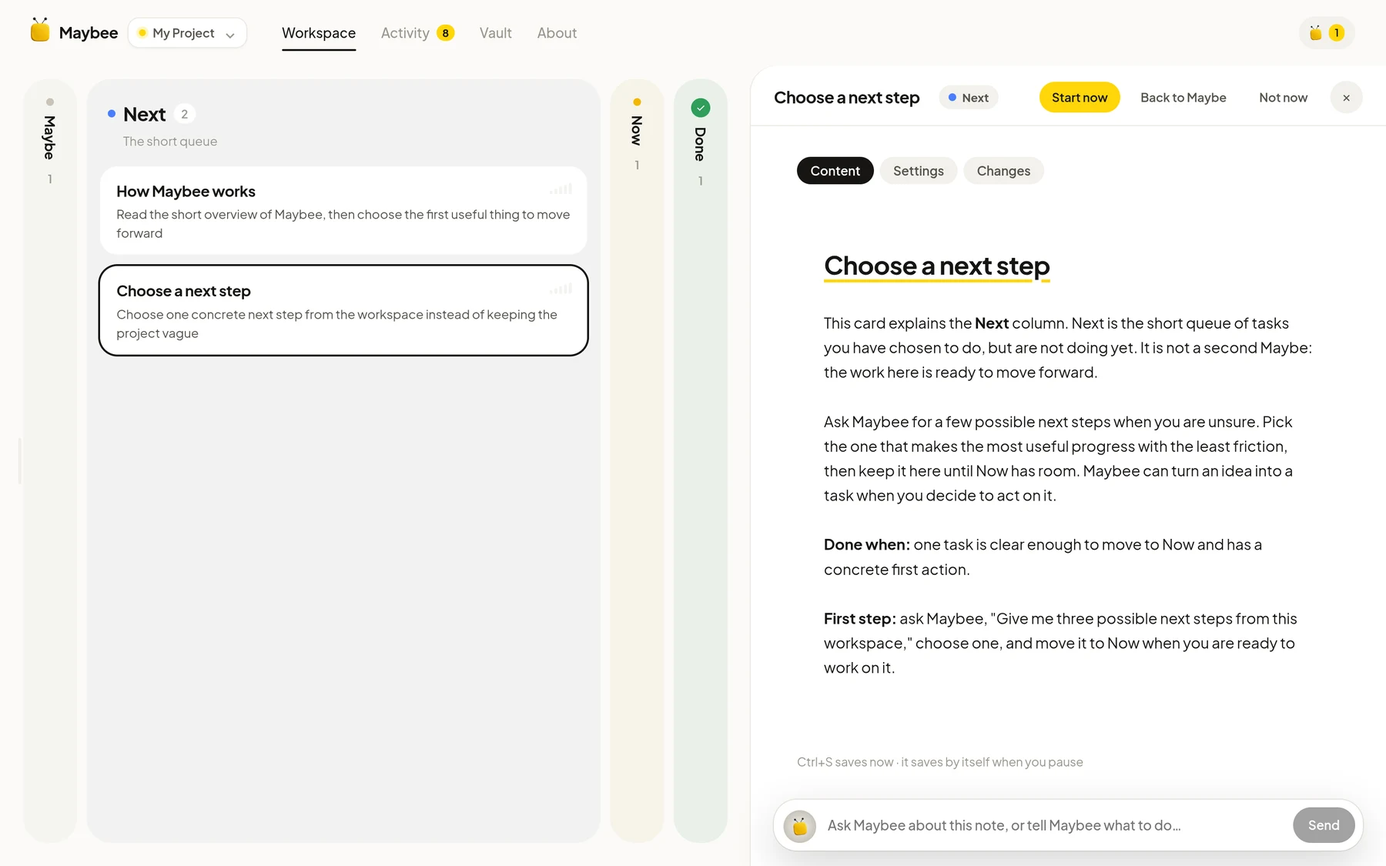
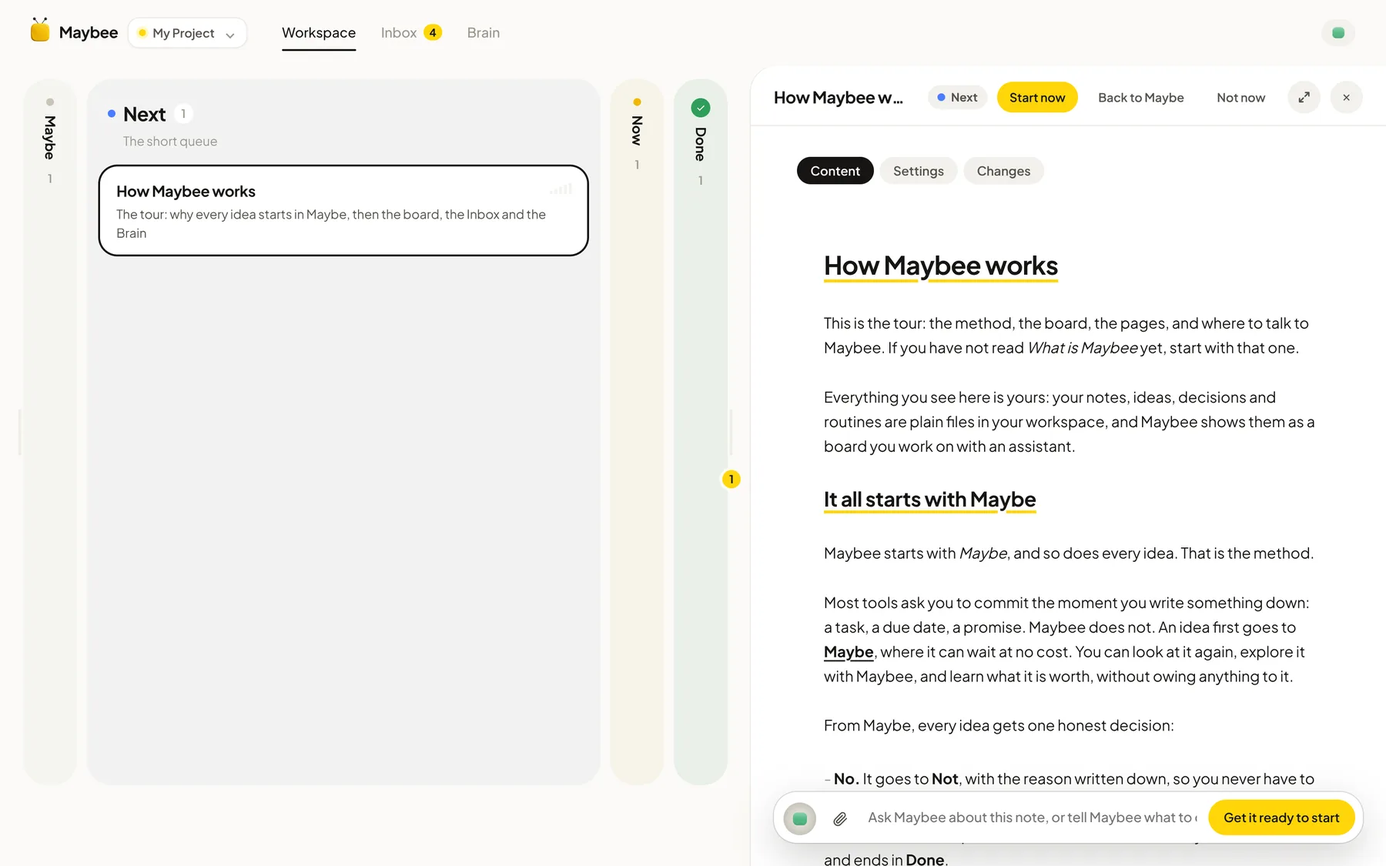
Onboarding: the tour starts from the method (every idea starts in Maybe and gets one decision), cards and screenshots match the Inbox, the Brain and the hidden Routine column, a daily check-in replaces the How I post routine, Choose a next step goes

diff --git a/app/src/components/Onboarding.vue b/app/src/components/Onboarding.vue
@@ -2,7 +2,7 @@
 // First run: Maybee introduces itself, asks the person's name, then one open question that lets them tell the whole story.
 // With an assistant listening, that story goes to it at once and Maybee answers right away while it reads. With no assistant the
 // questions stay a script: who it is for and the goal are asked one by one instead. The writing voice is not asked here: it is
-// filled later, on About, when it matters.
+// filled later, in the Brain, when it matters.
 import logo from '../assets/logo.png'
 import { ref, watch, nextTick, onMounted, onBeforeUnmount } from 'vue'
 import MarkdownIt from 'markdown-it'
@@ -36,9 +36,9 @@ const READ_ANSWERS = (a, extra) => 'This is Maybee’s first-run chat. A person 
 const clean = (v, n) => typeof v === 'string' ? v.replace(/\s+/g, ' ').trim().slice(0, n) : ''
 
 // The assistant rewrites the welcome card for this person. The card keeps its place on the board (its front matter stays); only the body is theirs.
-const REWRITE = goal => 'This person has just finished Maybee’s first-run chat. Rewrite the card “How Maybee works” for them. First read PROJECT.md, STATE.md, owner/preferences.md and knowledge/brand/voice.md, and look at the cards in ideas/. Keep the front matter as it is (id, title, type, stage, owner, kind, importance, priority) and only add a next_step. The card “What is Maybee” comes before this one (it sits in Now, and this card is the next step, in Next) and says what Maybee is: do not repeat it, this card is the tour. Write the body in the language the person used in PROJECT.md, short enough for one screen: one or two sentences about THEIR project and goal, then what they will find in each column of THEIR board (use their real cards, and say what each column is for), then their first step. '
+const REWRITE = goal => 'This person has just finished Maybee’s first-run chat. Rewrite the card “How Maybee works” for them. First read PROJECT.md, STATE.md, owner/preferences.md and knowledge/brand/voice.md, and look at the cards in ideas/. Keep the front matter as it is (id, title, type, stage, owner, kind, importance, priority) and only add a next_step. The card “What is Maybee” comes before this one (it sits in Now, and this card is the next step, in Next) and says what Maybee is: do not repeat it, this card is the tour. Write the body in the language the person used in PROJECT.md, short enough for one screen: one or two sentences about THEIR project and goal, then a short section on the method (every idea starts in Maybe with no promise attached, and from there gets one decision: no goes to Not with its reason, yes becomes a plan in Next, then Now and Done, not yet stays in Maybe), then what they will find in each column of THEIR board (use their real cards, and say what each column is for), then their first step. '
   + (goal ? `Their goal became a card in Maybe, “${goal.title}” (ideas/${goal.path.split('/').pop()}). Link to it only once, in a short “Your first card” section near the end, with a Markdown link by file name with spaces as %20 (for example [your first card](Turn%20the%20work%20into%20a%20post.md)), and say there that every card is a plain file in the ideas folder. Everywhere else do NOT link to cards or files: following a file link replaces this card’s text and the person loses the thread, so for the tour use only the maybee: links. ` : '')
-  + 'Keep the links that start with maybee: ([Now](maybee:board/now) opens a column of the board, [About](maybee:go/about) goes to a page): use them for the columns and pages you mention, and keep a short section on the About page (where they tell Maybee about their project in a chat) and one with the important links (the app’s pages and the community, no files). End the card with the short section about the chat bar at the bottom of every card (the bee beside it is green when an assistant is listening), as the last thing in the card and the call to action: finish with their first step as something to type in that chat bar. Keep any images (![...](...)) that are in the card, where they help. Do not invent facts about them. Then reply in two sentences saying what you changed.'
+  + 'Keep the links that start with maybee: ([Now](maybee:board/now) opens a column of the board, [Brain](maybee:go/brain) goes to a page): use them for the columns and pages you mention, and keep a short section on the Inbox (what Maybee made for them and what waits for their OK) and the Brain (their files, where they can ask questions and tell Maybee what changed in their project), and one with the important links (the app’s pages and the community, no files). End the card with the short section about the chat bar at the bottom of every card (the bee beside it is green when an assistant is listening), as the last thing in the card and the call to action: finish with their first step as something to type in that chat bar. Keep any images (![...](...)) that are in the card, where they help. Do not invent facts about them. Then reply in two sentences saying what you changed.'
 const GO = 'Let’zzz go' // the bee’s one joke, on the one button at the end: the one button at the end: the board, on Now, with the welcome card open
 const ready = () => result?.welcome ? 'Your board is ready, and your first card is open in Now.' : 'Your board is ready, and your first card is open.'
 

diff --git a/app/server.js b/app/server.js
@@ -561,12 +561,12 @@ async function initializeProject(body) {
 
 // The first card of a project made in the Maybee chat: the goal, with the explanation of the Maybee column kept.
 function goalCardText(title, id, day) {
-  return `---\n${id ? `id: ${id}\n` : ''}title: ${JSON.stringify(title)}\ntype: idea\nstage: maybe\nowner: both\nrank: 0\ndescription: "Your first idea: the goal you gave Maybee, kept here until you decide what it should become"\ncaptured: ${day}\nsource: "Maybee first-run chat"\nnext_step: "Ask Maybee for the first small step toward this goal"\n---\n\n`
+  return `---\n${id ? `id: ${id}\n` : ''}title: ${JSON.stringify(title)}\ntype: idea\nstage: maybe\nowner: both\nrank: 0\ndescription: "Your first idea: the goal you gave Maybee, kept here until you decide what it should become"\ncaptured: ${day}\nsource: "Maybee first-run chat"\nnext_step: "Press Explore this idea to see what this goal could become"\n---\n\n`
     + `> [Dashboard](../DASHBOARD.md) · [Start here](Start%20here%20—%20how%20Maybee%20works.md)\n\n# ${title}\n\n`
-    + `This is your first idea. It is the goal you gave Maybee when you set up this project, and it sits in **Maybe**, the column where ideas wait without becoming commitments.\n\n`
-    + `An idea can stay here, become a task when you decide to act, become a routine when it repeats, move to Done if it is already resolved, or move to Not when you deliberately leave it aside.\n\n`
-    + `**Done when:** you know whether this goal stays in Maybe or becomes something you act on.\n\n`
-    + `**First step:** ask Maybee in the chat below, "What would be the first small step toward this goal?"\n`
+    + `This is your first idea: the goal you gave Maybee when you set up this project. Every idea starts here, in **Maybe**, with no promise attached. It can wait here while you look at it again and learn what it is worth.\n\n`
+    + `When you are ready, give it one decision: **no** sends it to Not with the reason, **yes** makes it a plan in Next, **not yet** keeps it here. Not yet is a decision too.\n\n`
+    + `**Done when:** you have given this goal its decision: no, yes or not yet.\n\n`
+    + `**First step:** press **Explore this idea** on the chat bar below, and Maybee will show what this goal could become.\n`
 }
 
 // The voice goes where the workspace keeps it: the Tone list of the template's voice.md, or the whole file when it is the short default.

diff --git a/release/workspaces/default/ideas/Start here — how Maybee works.md b/release/workspaces/default/ideas/Start here — how Maybee works.md
@@ -5,7 +5,7 @@ type: task
 stage: next
 owner: both
 kind: Overview
-description: "Read the short overview of Maybee, then choose the first useful thing to move forward"
+description: "The tour: why every idea starts in Maybe, then the board, the Inbox and the Brain"
 importance: must
 priority: 1
 rank: 10
@@ -13,63 +13,92 @@ rank: 10
 
 # How Maybee works
 
-This is the tour: the board, the pages, and where to talk to Maybee. If you have not read *What is Maybee* yet, start with that one.
+This is the tour: the method, the board, the pages, and where to talk to Maybee. If you have not read *What is Maybee* yet, start with that one.
 
-Everything you see here is yours: your notes, ideas, decisions and routines live in your workspace, and Maybee shows them as a board you can work on with an assistant.
+Everything you see here is yours: your notes, ideas, decisions and routines are plain files in your workspace, and Maybee shows them as a board you work on with an assistant.
+
+## It all starts with Maybe
+
+Maybee starts with *Maybe*, and so does every idea. That is the method.
+
+Most tools ask you to commit the moment you write something down: a task, a due date, a promise. Maybee does not. An idea first goes to [**Maybe**](maybee:board/maybe), where it can wait at no cost. You can look at it again, explore it with Maybee, and learn what it is worth, without owing anything to it.
+
+From Maybe, every idea gets one honest decision:
+
+- **No.** It goes to **Not**, with the reason written down, so you never have to decide it twice.
+- **Yes.** It becomes a plan in **Next**, moves to **Now** when you work on it, and ends in **Done**.
+- **Not yet.** It stays in Maybe. That is a decision too.
+
+Because nothing has to be promised to get in, you can write down every idea. Because every idea passes through Maybe, what reaches Now is something you really chose. Your first idea is already there: if you answered Maybee's questions, it is your goal, and it explains the column. If you skipped them, *Capture an idea* does.
 
 ## Your board
 
-Maybee always opens on [Now](maybee:board/now). Click a column's name below and the board opens it while this card stays open, so you can read and look at the same time.
+The columns follow that path, from left to right. Maybee always opens on [Now](maybee:board/now). Click a column's name below and the board opens it while this card stays open, so you can read and look at the same time.
 
 ![The board, opened on Now](maybee-board.webp)
 
-- [**Not**](maybee:board/not): look at the board before you click this link and you will not see it. It hides at the left edge until you point at it or drag a card. This is where an idea goes when you decide *no*, with the reason written down, so you never have to decide it twice. *What Not means* explains it.
-- [**Maybe**](maybee:board/maybe): the heart of an idea. Everything starts here, with no promise attached: a thought you want to keep, look at again, and maybe never do. If you answered Maybee's questions, your goal is the first idea here, and it explains the column too. If you skipped them, *Capture an idea* does.
-- [**Next**](maybee:board/next): the idea has become a plan. These are the steps that are ready and waiting for Now to have room. You will find this tour here, next in line, and *Choose a next step*.
-- [**Now**](maybee:board/now): the few things worth your attention today, and the column Maybee always opens on. *What is Maybee* is the one you find here: read it, then move it to Done.
-- [**Routine**](maybee:board/routine): work that comes back by itself, with a schedule, an automation and a Run button. It is not a one-off task. You will find *How routines and settings work*, the daily How I post.
-- [**Done**](maybee:board/done): finished work, kept as history so you can see how far you have come. It starts with a small example, *What Done means*.
+- [**Not**](maybee:board/not): ideas you said no to, each with its reason. It hides at the left edge until you point at it or drag a card there (look at the board before you click this link and you will not see it). It is also the only place where a card can be deleted. *What Not means* explains it.
+- [**Maybe**](maybee:board/maybe): where every idea starts, with no promise attached.
+- [**Next**](maybee:board/next): ideas that became a plan, ready and waiting for Now to have room. This tour is here.
+- [**Now**](maybee:board/now): the few things worth your attention today. *What is Maybee* is the one you find here: read it, then move it to Done.
+- [**Done**](maybee:board/done): finished work, kept as history so you can see how far you have come. It starts with *What Done means*.
+- **Routine**: work that comes back by itself, like a daily check-in. It hides at the right edge, the mirror of Not, and slides out when you point at it. A yellow number there tells you how many routines are ready to run today. You will find *How routines work* there.
 
 This is Not appearing when you point at the left edge of the board:
 
 ![Not, revealed at the left edge of the board](maybee-not.webp)
 
-## About: tell Maybee who you are
+And this is Routine, on the other side, with its yellow number:
 
-The [About](maybee:go/about) page, in the top bar, is where Maybee keeps what everything else depends on: your goal and focus, what is waiting for your decision, and the project's own files (who it is for, what you offer, how you sound). It has its own chat: say in plain words what changed ("I now work with schools too") and Maybee updates the right file, keeps its language and format, and logs the change. Come back to About whenever the project changes.
+![Routine, revealed at the right edge of the board](maybee-routine.webp)
+
+**Capture from anywhere.** Under all the columns there is a bar: *Write an idea and press Enter. It goes to Maybe.* The new card shows up in Maybe, highlighted, and the cursor stays there for the next one. Drop a file on the bar and the new idea carries it.
+
+## One action per column
+
+Every card offers the one step its column needs, in yellow on its chat bar:
+
+- **Explore this idea** in Maybe: Maybee gives a rough idea a clear title and description, and looks at what it could become.
+- **Get it ready to start** in Next: Maybee makes the plan concrete enough to begin.
+- **Do the next step** in Now: Maybee does the next piece of work with you.
+- **What comes next?** in Done: Maybee suggests what could follow.
+
+Start typing and the same spot turns into **Send**, so you can always ask for something else instead.
 
 ## Where things are
 
+The top bar has three places:
+
 - [**Workspace**](maybee:go/workspace): the board.
-- [**Activity**](maybee:go/activity): every change and new file, newest first.
-- [**Vault**](maybee:go/vault): all your files in one place.
-- [**About**](maybee:go/about): your project, and the chat that changes it.
-- Community: [**How I on Skool**](https://www.skool.com/how-i-9301)
+- [**Inbox**](maybee:go/inbox): what Maybee made for you, like mail. **Needs you** holds what waits for your OK; **For you** holds what Maybee made, one line per card, bold until you open it. It has its own chat, so you can answer or approve without leaving it.
+- [**Brain**](maybee:go/brain): all your files. Your project, its state and its dashboard sit on top, the folders below. Type to search; press Enter to ask a question, and Maybee answers from your files, with links. Tell it what changed ("I now work with schools too") and it updates your goal, audience or voice in the right file. You can also move, rename and delete files here, and every link to them is fixed.
 
-## Working with Maybee
+Community: [**How I on Skool**](https://www.skool.com/how-i-9301)
 
-Ask the agent to capture an idea, write a draft, explain a note, or decide what to do next. It should read this workspace first and keep the files updated. Anything that goes outside the workspace — posting, sending or publishing — still waits for your explicit approval.
+## Inside a card
 
-When you open a card, the viewer has three tabs:
+When you open a card, it has three tabs:
 
-- **Content:** the note itself — what it means, why it exists, what done looks like, and the next step.
-- **Settings:** the note's controls and metadata — its type, stage, owner, priority, schedule, and other fields Maybee uses to place it on the board.
-- **Changes:** the history of the file — what changed, when it changed, and which part of the project it came from.
+- **Content:** the note itself: what it means, why it exists, what done looks like, and the next step. When Maybee makes something for the card (a draft, an image, a page), it shows here under **Work**, newest first.
+- **Settings:** the controls Maybee uses to place it on the board: type, column, owner, priority, schedule.
+- **Changes:** the history of the file: what changed and when.
 
-Every card opens like this: its text, the three tabs, and the chat bar at the bottom.
+The button next to ✕ lets a long card fill the window; press it again to put it back beside the board.
 
 ![A card open beside the board, with its tabs and the chat bar](maybee-card.webp)
 
-**Try it now:** open this card, click **Content**, **Settings**, and **Changes**, then ask Maybee what one of the fields means.
-
-**Done when:** you know where the files live, what Now/Next/Maybe mean, and you have chosen the first thing to move forward.
+**Try it now:** click **Content**, **Settings** and **Changes** on this card, then ask Maybee what one of the fields means.
 
 ## Your first card
 
 When you finish here, open [your first card](Turn%20the%20work%20into%20a%20post.md) in Maybe. It is the goal you gave Maybee, and it explains that column too (if you skipped the questions, it is *Capture an idea*). Like every card, it is a plain file in your workspace, in the `ideas` folder, so you can also edit it outside Maybee.
 
+**Done when:** you know what each column is for, where the Inbox and the Brain are, and you have chosen the first thing to move forward.
+
 ## Talk to Maybee
 
-At the bottom of every card there is a chat bar: *Ask Maybee about this note, or tell Maybee what to do…*. Ask about the card you are reading, or tell Maybee to do something with it, and the answer shows up in the chat. The bee beside the bar tells you who is there: **green** when an assistant session is connected and listening, **yellow and swaying** while it works on your request, **grey** when no session is connected yet.
+At the bottom of every card there is a chat bar: *Ask Maybee about this note, or tell Maybee what to do…*. Ask about the card you are reading, or tell Maybee to do something with it. Click the paperclip, drop a file, or paste a screenshot to give Maybee something to read first. With a card open, the chat follows your mouse: over the board you see the board's bar, over the card you see the card's chat.
+
+The bee beside the bar tells you who is there: **green** when an assistant is connected and listening, **yellow and swaying** while it works on your request, **grey** when no assistant is connected yet. Anything that goes outside your workspace (posting, sending, publishing) still waits for your OK.
 
 **First step:** type in the chat bar below, "What should I do first in this workspace?"

diff --git a/skill/maybee/references/board.md b/skill/maybee/references/board.md
@@ -83,7 +83,7 @@ A routine that is `auto` runs on its own only while an agent is connected. Witho
 2. Don't invent facts. Facts in a card come from the user, from the workspace's files, or from what you just did.
 3. Keep the card's links: the line under the frontmatter points back to the dashboard and the overview.
 4. Add one line to `logs/CHANGELOG.md` for each change, in the form `- YYYY-MM-DD HH:MM: what changed (ideas/Card title.md)`, with the local date and time now (the time is optional, but the **Changes** tab shows it when it is there). The app shows these lines in each card's **Changes** tab and in the feed.
-5. Show the work on the card. Every file you make (a document, a draft, an image, a video, a PDF, a page) goes in `outputs/` and on a card, never loose. Put it there with `node .maybee/package/app/scripts/output.js "ideas/Card title.md" "outputs/file.md" "what it is"` (add `--request <id>` when you work on an app request, so the file is listed under your reply). It adds the file under the card's `## Work` heading, newest first (images, videos, PDFs and HTML pages embedded, other files as links), and writes the changelog line. When the work did not start from a card (the About page, a file, the chat), use the open card it belongs to, or create one in Maybe when none fits. An answer or a small edit that makes no file needs no card.
+5. Show the work on the card. Every file you make (a document, a draft, an image, a video, a PDF, a page) goes in `outputs/` and on a card, never loose. Put it there with `node .maybee/package/app/scripts/output.js "ideas/Card title.md" "outputs/file.md" "what it is"` (add `--request <id>` when you work on an app request, so the file is listed under your reply). It adds the file under the card's `## Work` heading, newest first (images, videos, PDFs and HTML pages embedded, other files as links), and writes the changelog line. When the work did not start from a card (the Brain, the Inbox, a file, the chat), use the open card it belongs to, or create one in Maybe when none fits. An answer or a small edit that makes no file needs no card.
    **One output is one thing.** When the work is a set of pieces (20 posts, 10 emails, 5 ideas for videos), each piece is its own note in a folder of `outputs/` (for example `outputs/linkedin-posts/2026-11-24-short-title.md`), with frontmatter for what it is and where it stands (`status: draft`, a date, a link and numbers once it is out). Add one note that lists the set (`outputs/drafts-batch-1.md`): that list goes on the card, not each piece. A piece can then be found, linked from another card, changed alone, and keep what happened to it, so the work becomes knowledge instead of one long document.
 
    **What waits for the owner goes in STATE.md.** When you need the owner's OK or action to go on (read a draft, approve a post, answer a question), add one line under `## Waiting on the owner` in STATE.md: `- **What to do**: why, with a [link](ideas/Card.md) to the card or note`. The Inbox shows these lines on top. When the owner did it or answered, remove the line.

diff --git a/release/workspaces/default/ideas/What is Maybee.md b/release/workspaces/default/ideas/What is Maybee.md
@@ -22,7 +22,7 @@ You keep your ideas in one place. Maybee, together with an assistant, helps you 
 
 - **A board.** Your ideas live on it as cards, and they move from left to right as they become real: from a thought, to a plan, to what you are doing now, to done. You see all of it at a glance.
 - **An assistant.** Maybee works with an AI assistant, Claude or Codex, that you connect from your own computer. You talk to it in the chat bar at the bottom of every card: ask about a card, or tell it what to do with it. It reads your project first, so it never starts from zero.
-- **Your files.** Everything is a plain file in a folder of yours, with no hidden database, so you can open any of it outside Maybee. The app and your files stay on your computer, and anything that goes out into the world (posting, sending, publishing) waits for your approval.
+- **Your files.** Everything is a plain file in a folder of yours, with no hidden database, so you can open any of it outside Maybee. The **Brain** shows all of it, and you can ask it questions. The app and your files stay on your computer, and anything that goes out into the world (posting, sending, publishing) waits for your approval.
 
 ![The board, opened on Now](maybee-board.webp)
 
@@ -37,12 +37,12 @@ You can think of it as a second brain that does not stop at remembering: it help
 1. Write an idea in Maybe.
 2. Ask Maybee for a few next steps, and pick one.
 3. Start it, with the assistant helping.
-4. Mark it done, and it stays as history.
+4. See what Maybee made in the **Inbox**, approve it, and mark the card done. It stays as history.
 
 That is the whole loop. Everything else in Maybee is there to make that loop easier.
 
 ## Next
 
-Ready for the tour? **How Maybee works** is waiting in **Next**, as the next card in line: when you are ready, start it and it moves to Now. It shows the columns, the pages, and where to talk to Maybee.
+Ready for the tour? **How Maybee works** is waiting in **Next**, as the next card in line: when you are ready, start it and it moves to Now. It shows the columns, the Inbox, the Brain, and where to talk to Maybee.
 
 Or open it right now: [How Maybee works](Start%20here%20—%20how%20Maybee%20works.md).

diff --git a/release/workspaces/default/ideas/Turn the work into a post.md b/release/workspaces/default/ideas/Turn the work into a post.md
@@ -2,10 +2,9 @@
 id: I1
 title: "Capture an idea"
 type: idea
-area: community
 stage: maybe
 owner: both
-description: "Keep a useful idea visible until you decide what it should become"
+description: "Every idea starts in Maybe, with no promise attached"
 value_members: 3
 value_money: 2
 want: 2
@@ -18,12 +17,12 @@ source: "Maybee playbook"
 
 # Capture an idea
 
-This card explains the **Maybe** column. Maybe is where ideas wait without becoming commitments. It should reflect possibilities you want to keep visible while you learn more or decide what they are worth.
+This card explains the **Maybe** column. Every idea starts here, with no promise attached. It can wait here while you look at it again and learn what it is worth.
 
-An idea can stay here, become a task when you decide to act, become a routine when it repeats, move to Done if it is already resolved, or move to Not when you deliberately leave it aside.
+When you are ready, give each idea one decision: **no** sends it to Not with the reason, **yes** makes it a plan in Next, **not yet** keeps it here. Not yet is a decision too.
 
-When you have an idea, ask Maybee to capture it. Maybee should help make the idea clear by recording what it is, why it matters, what done would look like, and the first step — without forcing you to commit immediately.
+To capture an idea, write it in the bar under the board and press Enter: it lands here. Then open it and press **Explore this idea** on its chat bar. Maybee gives it a clear title and description and looks at what it could become, without forcing you to commit.
 
-**Done when:** you have captured one real idea and know whether it should stay in Maybe or become something actionable.
+**Done when:** you have captured one real idea and given it its decision: no, yes or not yet.
 
-**First step:** tell Maybee, "I have an idea," and describe it in one sentence.
+**First step:** write one real idea in the bar under the board, in one sentence, and press Enter.

diff --git a/release/workspaces/default/ideas/Daily check-in.md b/release/workspaces/default/ideas/Daily check-in.md
@@ -1,0 +1,42 @@
+---
+title: "How routines work"
+type: routine
+owner: both
+kind: Routine
+recurring: daily
+last_done:
+description: "Each day, look at the board and the Inbox and suggest the one thing most worth doing today"
+importance: should
+priority: 3
+auto: off
+where: none
+next_step: "Press Run, or ask Maybee to make this routine your own"
+---
+
+> [Dashboard](../DASHBOARD.md) · [How Maybee works](Start%20here%20—%20how%20Maybee%20works.md)
+
+# How routines work
+
+This card explains the **Routine** column. A routine is work that comes back, not a one-off task. It stays after today's run and returns when it is due.
+
+The Routine column hides at the right edge of the board, the mirror of Not. Point at the right edge and it slides out. A yellow number there tells you how many routines are ready to run today.
+
+- **Run** starts it now. Your assistant does the work and answers in the card's chat.
+- **‹ Not today** skips it for today; it comes back tomorrow.
+- The **Settings** tab is where you choose how often it comes back, whether it starts by itself while an assistant is connected, and where the cards it makes land (Maybe, Next, Now, or nowhere).
+
+To make your own routine, drag any card onto the Routine column, or tell Maybee in a chat, "make this a routine every Monday". To stop one, send it to Not: it becomes an ordinary card again.
+
+## What this routine does
+
+Every day, when you press Run:
+
+1. Read the cards in Now and Next, and what waits in the Inbox under **Needs you**.
+2. Suggest the one thing most worth doing today, and why, in two or three sentences.
+3. Point out anything that has been sitting in Now for too long.
+
+It only reads and suggests. It never moves a card or sends anything on its own.
+
+**Done when:** today's suggestion is in the chat and `last_done` is updated here.
+
+**First step:** press **Run**, or ask Maybee to change this routine into one that fits your work.

diff --git a/release/workspaces/default/README.md b/release/workspaces/default/README.md
@@ -1,9 +1,9 @@
 # Maybee default workspace
 
-This workspace is a small starting playbook for a member of the How I community.
+This workspace is where a new Maybee project starts.
 
 Maybee reads the files here, shows them on the board and helps turn real work into drafts. It never invents facts and never publishes outside the workspace without the owner's approval.
 
-Start with [What is Maybee](ideas/What%20is%20Maybee.md), then take the tour in [How Maybee works](ideas/Start%20here%20—%20how%20Maybee%20works.md), and use the cards on the board as the onboarding steps. They explain the columns while you use them: choose a next step, keep an idea in Maybe, configure a Routine, finish the tour, and learn where Not lives. The daily post routine reads [this workspace's changelog](logs/CHANGELOG.md) and prepares a draft for review.
+Start with [What is Maybee](ideas/What%20is%20Maybee.md), then take the tour in [How Maybee works](ideas/Start%20here%20—%20how%20Maybee%20works.md), and use the cards on the board as the onboarding steps. They explain the method and the columns while you use them: keep an idea in Maybe, run a routine, finish the tour, and learn where Not lives. The [daily check-in](ideas/Daily%20check-in.md) routine reads the board and suggests the one thing worth doing today.
 
 Open the tour card and visit its **Content**, **Settings** and **Changes** tabs. Content explains the note, Settings shows the fields that control the board, and Changes shows the note's history.

diff --git a/release/workspaces/default/ideas/Leave it aside deliberately.md b/release/workspaces/default/ideas/Leave it aside deliberately.md
@@ -12,6 +12,6 @@ description: "Learn how the Not column keeps deliberate decisions out of the act
 
 # What Not means
 
-This card explains the **Not** column. Not is not a forgotten backlog: it is where you put something you deliberately chose not to pursue, together with the reason. It stays hidden until you bring the pointer to the left edge of the board.
+This card explains the **Not** column. Every idea in Maybe gets one decision, and Not is where the **no** goes. It is not a forgotten backlog: it is what you deliberately chose not to pursue, together with the reason, so you never have to decide it twice. It stays hidden until you bring the pointer to the left edge of the board, or drag a card there. Not is also the only place where a card can be deleted.
 
 **First step:** move an idea here only when you can say why it is not worth attention now.

diff --git a/release/workspaces/default/ideas/You completed the Maybee tour.md b/release/workspaces/default/ideas/You completed the Maybee tour.md
@@ -13,6 +13,6 @@ done: 2026-11-11
 
 # What Done means
 
-This is what the **Done** column is for: finished work that stays visible as history. Completing the onboarding cards is the first useful piece of work in this workspace.
+This is what the **Done** column is for: finished work that stays visible as history. Completing the onboarding cards is the first useful piece of work in this workspace. Open a card here and press **What comes next?** to ask Maybee what could follow.
 
-**Done when:** you know how to ask Maybee to capture an idea, choose a next step, and run a routine.
+**Done when:** you know how to capture an idea, choose a next step, run a routine, and find what Maybee made in the Inbox.

diff --git a/release/workspaces/default/DASHBOARD.md b/release/workspaces/default/DASHBOARD.md
@@ -5,8 +5,7 @@ This is the starting point for a Maybee playbook workspace.
 - [README](README.md)
 - [What is Maybee](ideas/What%20is%20Maybee.md)
 - [How Maybee works](ideas/Start%20here%20—%20how%20Maybee%20works.md)
-- [Next step](ideas/Choose%20the%20next%20step.md)
 - [Maybe / ideas](ideas/Turn%20the%20work%20into%20a%20post.md)
-- [Daily post routine](ideas/Write%20today's%20How%20I%20community%20post.md)
+- [Routine: daily check-in](ideas/Daily%20check-in.md)
 - [Done](ideas/You%20completed%20the%20Maybee%20tour.md) · [Not](ideas/Leave%20it%20aside%20deliberately.md)
 - [Changelog](logs/CHANGELOG.md)

diff --git a/playbooks/template/workspace/decisions/README.md b/playbooks/template/workspace/decisions/README.md
@@ -6,7 +6,7 @@ description: One file per decision
 
 One file per decision, named `YYYY-MM-DD-short-title.md` (for example `2026-11-14-focus-on-new-founders.md`). The agent reads these before it proposes anything, so a decision here beats its own ideas.
 
-Use this shape. The title and the description are what About shows for the file:
+Use this shape. The title and the description are what the Brain shows for the file:
 
 ```
 ---
